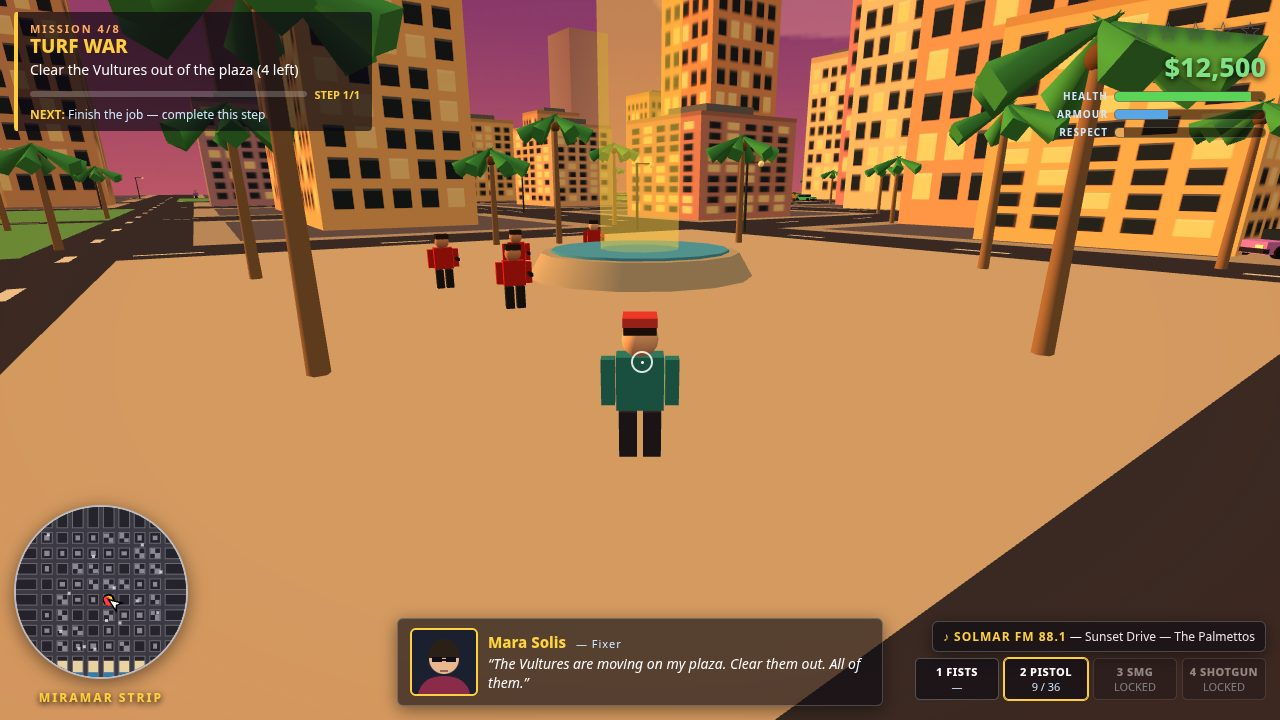
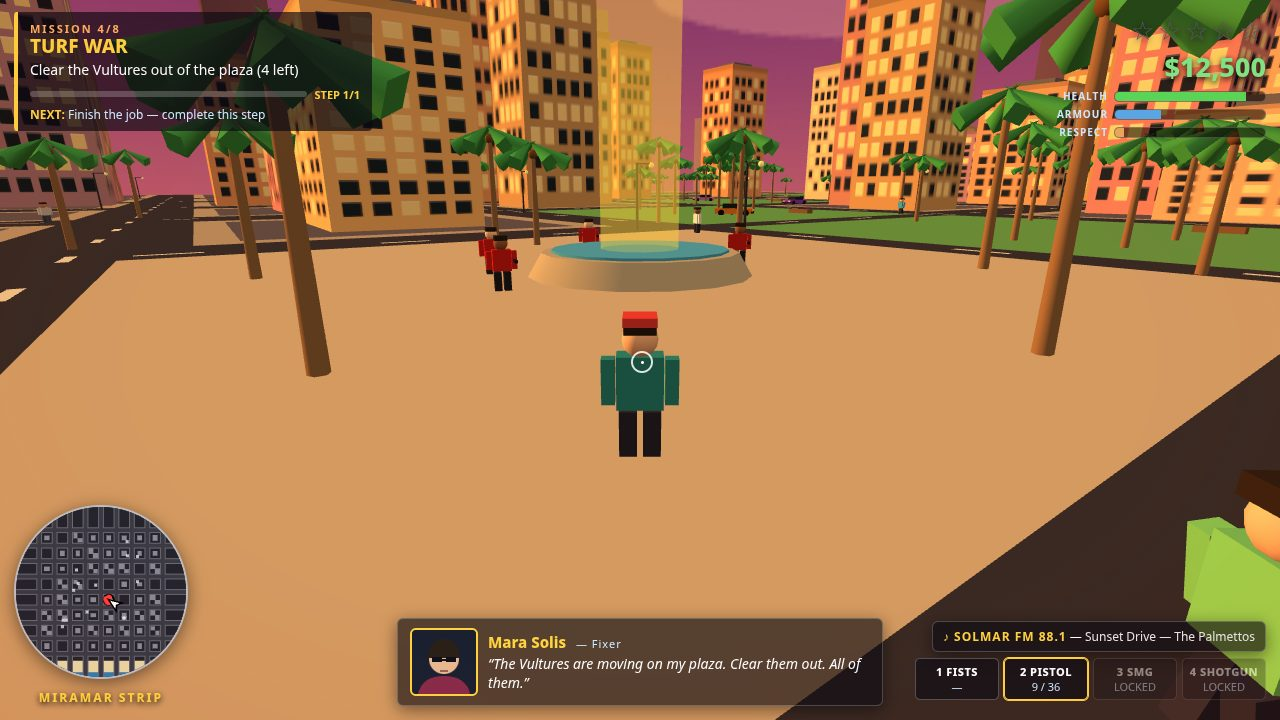
Fix transcripts_witnessed: recorded lines in audio/combat/people/serve/shots

Changed region(s): [[0.0, 0.0, 1.0, 0.4278], [0.9062, 0.6722, 1.0, 1.0], [0.0312, 0.7333, 0.125, 0.9167]]

diff --git a/game/src/people.js b/game/src/people.js
@@ -7,6 +7,7 @@ import { resolveBuildingCollision } from './city.js';
 const THREE = window.THREE;
 
 const SHIRTS = [0xe8e8e8, 0xd8a040, 0x40a0d8, 0xd87090, 0x70c870, 0xc8c8c8, 0x9060c0];
+const BEACH_SHIRTS = [0xff6b6b, 0xffd93d, 0x6bcbff, 0xff9f43];
 const SKINS = [0xe8b890, 0xc89068, 0x8a5a3a, 0xf0c8a0];
 
 /** A simple humanoid: torso, head, arms and legs that swing while walking. */
@@ -68,6 +69,7 @@ export class Pedestrians {
     this.city = city;
     this.list = [];
     for (let i = 0; i < 26; i += 1) this.spawn();
+    for (let i = 0; i < 4; i += 1) this.spawnBeachgoer();
   }
 
   spawn() {
@@ -87,6 +89,29 @@ export class Pedestrians {
       panic: 0,
       fallen: false,
       fallTimer: 0,
+      beach: false,
+    };
+    person.target = this.pickTarget(person);
+    this.list.push(person);
+    return person;
+  }
+
+  /** A bright-shirted beachgoer strolling the boardwalk at z = 168. */
+  spawnBeachgoer() {
+    const x = rand(this.rng, -140, 140);
+    const z = 168 + rand(this.rng, -4, 4);
+    const mesh = makePersonMesh(pick(this.rng, BEACH_SHIRTS), pick(this.rng, [0x2a2a3a, 0x4a3a2a]), pick(this.rng, SKINS));
+    mesh.position.set(x, 0, z);
+    this.scene.add(mesh);
+    const person = {
+      mesh, x, z,
+      heading: this.rng() * Math.PI * 2,
+      speed: rand(this.rng, 0.7, 1.2),
+      target: null,
+      panic: 0,
+      fallen: false,
+      fallTimer: 0,
+      beach: true,
     };
     person.target = this.pickTarget(person);
     this.list.push(person);
@@ -94,6 +119,7 @@ export class Pedestrians {
   }
 
   pickTarget(person) {
+    if (person.beach) return { x: rand(this.rng, -140, 140), z: 168 + rand(this.rng, -4, 4) };
     const s = pick(this.rng, CITY.streets);
     const t = rand(this.rng, -160, 160);
     const alongX = this.rng() < 0.5;

diff --git a/game/src/audio.js b/game/src/audio.js
@@ -13,6 +13,8 @@ export class SoundBank {
     this.sirenGain = null;
     this.sirenTimer = 0;
     this.sirenHigh = false;
+    this.waveGain = null;
+    this.waveTimer = 0;
   }
 
   /** Must be called from a user gesture; browsers block audio before one. */
@@ -29,6 +31,7 @@ export class SoundBank {
       this.master.connect(this.ctx.destination);
       this.startEngineLoop();
       this.startSirenLoop();
+      this.startWaveLoop();
     } catch (err) {
       this.ctx = null;
     }
@@ -96,6 +99,21 @@ export class SoundBank {
     this.engineOsc.start();
   }
 
+  startWaveLoop() {
+    const src = this.ctx.createBufferSource();
+    src.buffer = this.noiseBuffer(4);
+    src.loop = true;
+    const filter = this.ctx.createBiquadFilter();
+    filter.type = 'lowpass';
+    filter.frequency.value = 400;
+    this.waveGain = this.ctx.createGain();
+    this.waveGain.gain.value = 0.05;
+    src.connect(filter);
+    filter.connect(this.waveGain);
+    this.waveGain.connect(this.master);
+    src.start();
+  }
+
   startSirenLoop() {
     this.sirenOsc = this.ctx.createOscillator();
     this.sirenOsc.type = 'triangle';
@@ -123,6 +141,10 @@ export class SoundBank {
       }
       const target = wanted > 0 && !this.muted ? 0.045 : 0;
       this.sirenGain.gain.value += (target - this.sirenGain.gain.value) * Math.min(1, dt * 4);
+    }
+    if (this.waveGain) {
+      this.waveTimer += dt;
+      this.waveGain.gain.value = 0.03 + 0.02 * Math.sin(this.waveTimer * 0.5);
     }
   }
 

diff --git a/game/src/combat.js b/game/src/combat.js
@@ -112,6 +112,13 @@ export class Combat {
       const dist = Math.hypot(dx, dz);
       member.heading = Math.atan2(dx, dz);
       member.mesh.rotation.y = member.heading;
+      // Wounded gang members back off instead of standing and shooting.
+      if (member.health <= 1 && dist < 15) {
+        member.x -= Math.sin(member.heading) * 2.4 * dt;
+        member.z -= Math.cos(member.heading) * 2.4 * dt;
+        member.mesh.position.set(member.x, 0, member.z);
+        continue;
+      }
       // Strafe sideways to stay a threat, not a statue.
       member.x += Math.cos(member.heading) * member.strafeDir * 1.2 * dt;
       member.z -= Math.sin(member.heading) * member.strafeDir * 1.2 * dt;

diff --git a/serve.ts b/serve.ts
@@ -65,7 +65,9 @@ createServer((request, response) => {
     'content-type': MIME[extname(file).toLowerCase()] ?? 'application/octet-stream',
     'content-length': size,
     'cache-control': 'no-store',
+    'x-content-type-options': 'nosniff',
   });
+  console.log(`${new Date().toISOString()} ${request.method} ${pathname} -> ${size}`);
   createReadStream(file).pipe(response);
 }).listen(port, '127.0.0.1', () => {
   console.log(`game/ is on http://localhost:${port}`);
